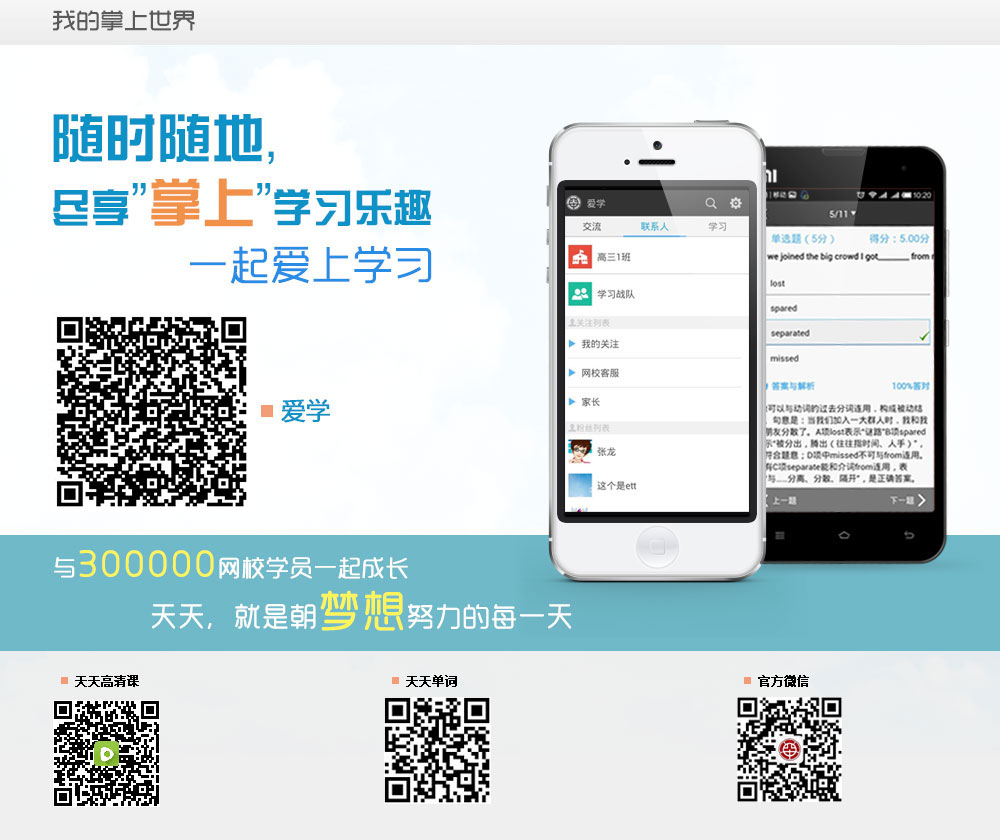
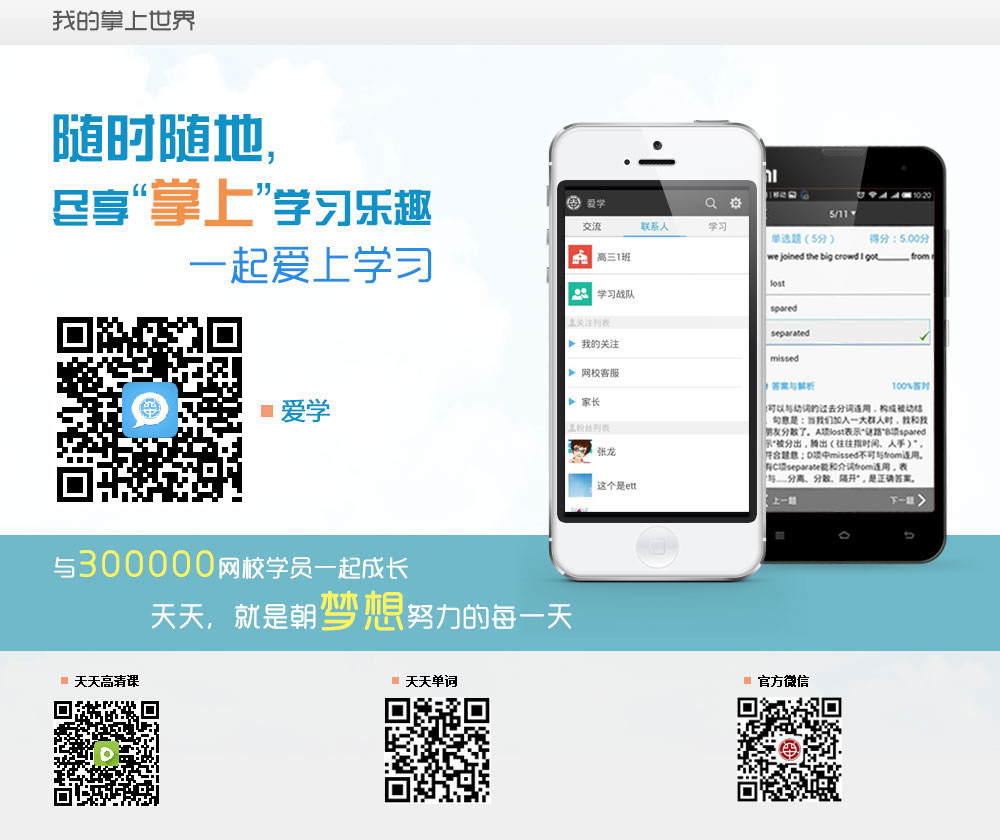
网校班级公共家长邀请码
爱学应用二维码替换

Changed region(s): [[0.031, 0.3714, 0.248, 0.619], [0.124, 0.2167, 0.155, 0.2476]]

diff --git a/aggregator-web/src/main/webapp/js/teachpaltform/group.js b/aggregator-web/src/main/webapp/js/teachpaltform/group.js
@@ -106,11 +106,11 @@ function getNoGroupStudentsByClassId(classId,classType,dctype){
                     if(dctype==1)
                         h+='<a style="display: none;" name="view_pass" class="ico92" title="查看密码" href="javascript:;"></a>';
                     else
-                        h+='<a style="display: none;" name="view_pass" class="ico92" title="查看ID" href="javascript:;"></a>';
+                        h+='<a style="display: none;" name="view_pass" class="ico92" title="查看ID" href="'+viewEttUserURL+itm.ETT_USER_ID+'"></a>';
                     if(dctype==1)
                         h+='<span style="display: none;" class="password" name="pass">'+itm.PASSWORD+'</span>';
-                    else
-                        h+='<span style="display: none;" class="password" name="pass"><a target="_blank" href="'+viewEttUserURL+itm.ETT_USER_ID+'">'+itm.ETT_USER_ID+'</a></span>';
+                    //else
+                        //h+='<span style="display: none;" class="password" name="pass"><a target="_blank" href="'+viewEttUserURL+itm.ETT_USER_ID+'">'+itm.ETT_USER_ID+'</a></span>';
                     h+='</li>';
                     $("#noGroupStudents").append(h);
                     $("#no_gs").append("<option value='"+itm.USER_ID+"' >"+itm.STU_NAME+"</option>");
@@ -307,13 +307,13 @@ function getGroupStudents(groupId,groupName,completenum,totalnum){
                 gtHtml+="<td><span class='w60'>"+itm.stuname;
                 if(dcType==1)
                     gtHtml+="<b style='display: none;'>"+itm.password+"</b>";
-                else
-                    gtHtml+="<b style='display: none;'><a target='_blank' href='"+viewEttUserURL+itm.ettuserid+"'>"+itm.ettuserid+"</a></b>";
+                //else
+                    //gtHtml+="<b style='display: none;'><a target='_blank' href='"+viewEttUserURL+itm.ettuserid+"'>"+itm.ettuserid+"</a></b>";
                 gtHtml+="</span>";
                 if(dcType==1)
                     gtHtml+='<a name="a_view" class="ico92" title="查看密码" href="javascript:void(0);"></a>';
                 else
-                    gtHtml+='<a name="a_view" class="ico92" title="查看ID" href="javascript:void(0);"></a>';
+                    gtHtml+='<a name="a_view" class="ico92" title="查看ID" href="'+viewEttUserURL+itm.ettuserid+'"></a>';
                 gtHtml+='<a href="javascript:delGroupStudent(\''+itm.ref+'\');" class="ico34" title="移出小组"></a>';
                 if(itm.isleader==2)
                     gtHtml+='<a href="javascript:showGroupsPanel(\''+itm.ref+'\',\''+groupId+'\');" class="ico22" title="调组"></a></td>';
@@ -456,8 +456,8 @@ function getStuList(clsid,dctype){
                     h+='<li>'+itm.realname;
                     if(dctype>1){
                         h+='<a style="display: none;" href="javascript:delClassUser(\''+itm.ref+'\')" class="ico_delete" title="删除"></a>';
-                        h+='<a style="display: none;" name="a_view" class="ico92" title="查看ID" href="javascript:;"></a>';
-                        h+='<span style="display: none;"  class="password"><a target="_blank" href="'+viewEttUserURL+itm.ettuserid+'">'+itm.ettuserid+'</a></span>'
+                        h+='<a style="display: none;" name="a_view" class="ico92" title="查看ID" href="'+viewEttUserURL+itm.ettuserid+'"></a>';
+                        //h+='<span style="display: none;"  class="password"><a target="_blank" href="'+viewEttUserURL+itm.ettuserid+'">'+itm.ettuserid+'</a></span>'
                     }else{
                         h+='<a style="display: none;" name="a_view" class="ico92" title="查看密码" href="javascript:;"></a>';
                         h+='<span style="display: none;"  class="password">'+itm.password+'</span>'

diff --git a/aggregator-web/src/main/webapp/js/ett/ettcls.js b/aggregator-web/src/main/webapp/js/ett/ettcls.js
@@ -526,15 +526,22 @@ function toUpdClass(clsid){
                         $("#dv_edit input[id='verify_time']").val(rps.objList[0].verifyTimeString);
                     if(typeof rps.objList[0].allowjoin !='undefined' )
                         $("#dv_edit input[name='rdo'][value='"+rps.objList[0].allowjoin+"']").attr("checked",true);
+                    $("#dv_edit input[id='invite_code']").next("span").remove();
                     if(rps.objList[0].dctype==2&&schoolid=="1"){
                         $("#dv_edit tr[id='tr_invite']").show();
                         if(typeof rps.objList[0].invitecode !='undefined'&&rps.objList[0].invitecode.toString().length>0){
-                            $("#dv_edit input[id='invite_code']").val(rps.objList[0].invitecode);
+                            $("#dv_edit input[id='invite_code']").after('<span>'+rps.objList[0].invitecode+'</span>');
                             $("#dv_edit a[id='btn_invitecode']").hide();
+                            $("#dv_edit input[id='invite_code']").hide();
                         }else{
                             $("#dv_edit a[id='btn_invitecode']").show();
                             $("#dv_edit input[id='invite_code']").empty();
+                            $("#dv_edit input[id='invite_code']").show();
                         }
+                    }else{
+                        $("#dv_edit a[id='btn_invitecode']").show();
+                        $("#dv_edit input[id='invite_code']").empty();
+                        $("#dv_edit tr[id='tr_invite']").hide();
                     }
 
 

diff --git a/aggregator-web/src/main/webapp/js/teachpaltform/1.js b/aggregator-web/src/main/webapp/js/teachpaltform/1.js
@@ -1,0 +1,3 @@
+function b(){
+    alert("asdfasdfas");
+}

diff --git a/class-basicplatform/src/main/java/com/school/control/UserController.java b/class-basicplatform/src/main/java/com/school/control/UserController.java
@@ -6384,7 +6384,7 @@ public class UserController extends BaseController<UserInfo> {
      * @throws Exception
      */
 
-    @RequestMapping(params = "m=receiveLZXUserM", method = RequestMethod.POST)
+    @RequestMapping(params = "m=receiveLZXUserM", method = {RequestMethod.POST,RequestMethod.GET})
     public void m_receiveLZXUser(HttpServletRequest request,HttpServletResponse response) throws Exception {
         JsonEntity je=new JsonEntity();
         String schoolid=request.getParameter("schoolid");
@@ -6697,7 +6697,7 @@ public class UserController extends BaseController<UserInfo> {
      * @throws Exception
      */
 
-    @RequestMapping(params = "m=modifyLZXUserM", method = RequestMethod.POST)
+    @RequestMapping(params = "m=modifyLZXUserM",  method = {RequestMethod.POST,RequestMethod.GET})
     public void m_modifyLZXUser(HttpServletRequest request,HttpServletResponse response) throws Exception {
         JsonEntity je=new JsonEntity();
         String schoolid=request.getParameter("schoolid");
@@ -6875,7 +6875,7 @@ public class UserController extends BaseController<UserInfo> {
      * @throws Exception
      */
 
-    @RequestMapping(params = "m=deleteLZXUserM", method = RequestMethod.POST)
+    @RequestMapping(params = "m=deleteLZXUserM",  method = {RequestMethod.POST,RequestMethod.GET})
     public void m_deleteLZXUser(HttpServletRequest request,HttpServletResponse response) throws Exception {
         JsonEntity je=new JsonEntity();
         String schoolid=request.getParameter("schoolid");
@@ -7002,7 +7002,7 @@ public class UserController extends BaseController<UserInfo> {
      * @throws Exception
      */
 
-    @RequestMapping(params = "m=receiveLZXClsUserM", method = RequestMethod.POST)
+    @RequestMapping(params = "m=receiveLZXClsUserM",  method = {RequestMethod.POST,RequestMethod.GET})
     public void m_receiveLZXClsUser(HttpServletRequest request,HttpServletResponse response) throws Exception {
         JsonEntity je=new JsonEntity();
         String schoolid=request.getParameter("schoolid");
@@ -7174,7 +7174,7 @@ public class UserController extends BaseController<UserInfo> {
      * @param response
      * @throws Exception
      */
-    @RequestMapping(params = "m=deleteLZXClsUserM", method = RequestMethod.POST)
+    @RequestMapping(params = "m=deleteLZXClsUserM",  method = {RequestMethod.POST,RequestMethod.GET})
     public void m_deleteLZXClsUser(HttpServletRequest request,HttpServletResponse response) throws Exception {
         JsonEntity je=new JsonEntity();
         String schoolid=request.getParameter("schoolid");

diff --git a/class-basicplatform/src/main/java/com/school/dao/UserDAO.java b/class-basicplatform/src/main/java/com/school/dao/UserDAO.java
@@ -281,8 +281,11 @@ public class UserDAO extends CommonDAO<UserInfo> implements IUserDAO {
             objList.add(obj.getEttuserid());
         }else
             sqlbuilder.append("NULL,");
-
-
+        if(obj.getHeadimage()!=null){
+            sqlbuilder.append("?,");
+            objList.add(obj.getHeadimage());
+        }else
+            sqlbuilder.append("NULL,");
 		sqlbuilder.append("?)}");
 		return objList;
 	}

diff --git a/class-basicplatform/src/main/java/com/school/dao/ClassYearDAO.java b/class-basicplatform/src/main/java/com/school/dao/ClassYearDAO.java
@@ -27,11 +27,6 @@ public class ClassYearDAO extends CommonDAO<ClassYearInfo> implements IClassYear
 		}return false;
 	} 
 
-	public Boolean doExcetueArrayProc(List<String> sqlArrayList,
-			List<List<Object>> objArrayList) {
-		return this.executeArray_SQL(sqlArrayList, objArrayList);
-	}
-
 	public Boolean doSave(ClassYearInfo obj) {
 		if (obj == null)
 			return false;
